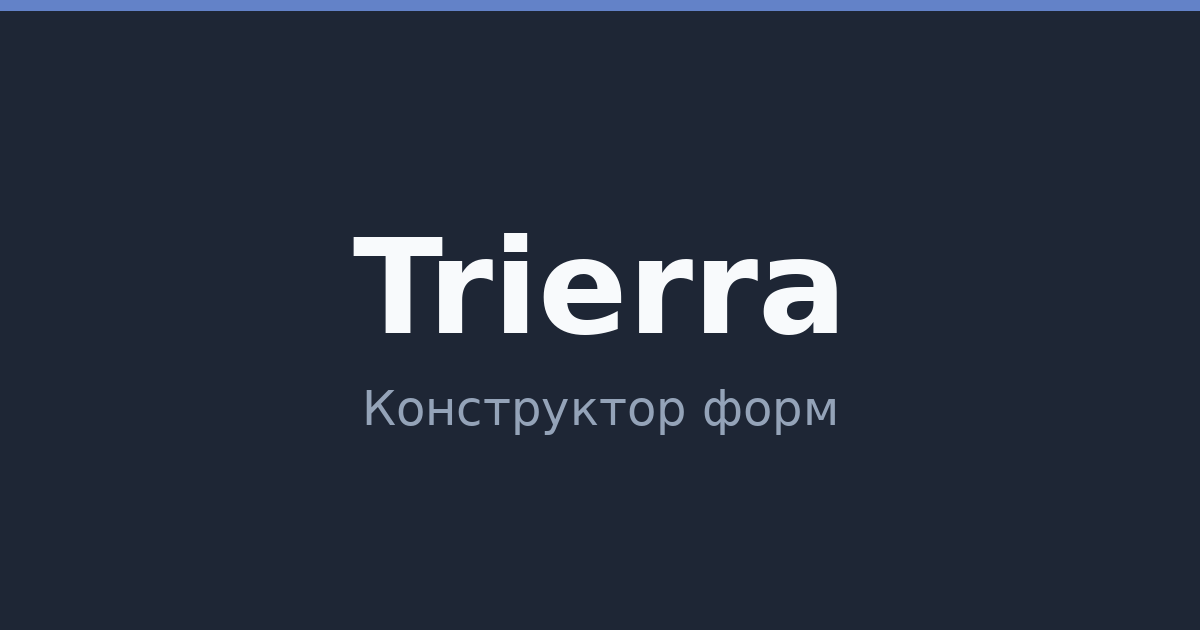
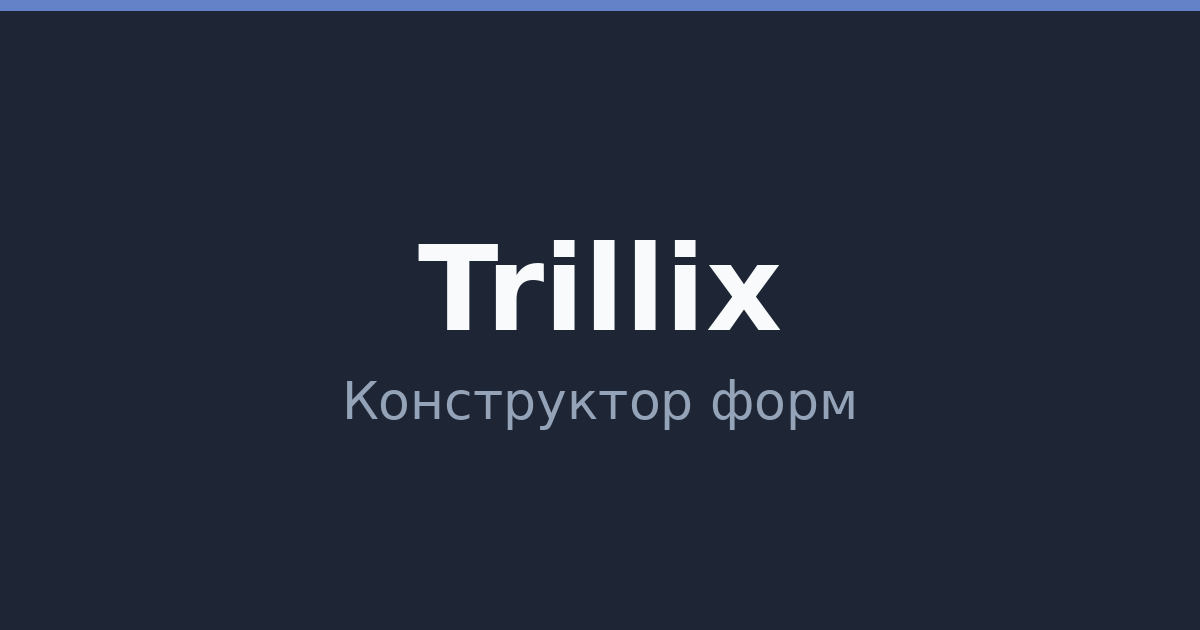
feat(share): брендовая картинка под Trillix, документы и тесты карточки
og-preview.png перерисована — на прежней стояло старое имя проекта. Документы
правятся тем же коммитом: SCHEMA (колонка 0036), API (фасет, purpose, мета
/r/{slug}), ADR-строка §10, BILLING (ключ и точка применения), S3 (потолки),
TECH-DEBT (пункт «своя og:image» закрыт), STATUS.

Changed region(s): [[0.2775, 0.3619, 0.7092, 0.5429], [0.2775, 0.6032, 0.7092, 0.6937]]

diff --git a/internal/forms/integration_test.go b/internal/forms/integration_test.go
@@ -372,6 +372,58 @@ func TestForms_CloseSettings(t *testing.T) {
 		`{"closeAt":null,"responseLimit":5,"closedMessage":""}`, http.StatusNotFound)
 }
 
+// Своя карточка ссылки (PATCH {linkPreview}): фасет доходит до сервиса, GET-деталь
+// её возвращает, набор заменяется целиком (пустая карточка = настройка снята),
+// слишком длинное поле → 422, чужая форма → 404.
+//
+// Тариф здесь НЕ участвует и участвовать не должен: сохранять карточку вправе любой
+// план, а право её применить спрашивается при отдаче публичной страницы. Отдельный
+// сторож этому — TestUpdateLinkPreview_SavesOnAnyPlan в юнитах сервиса.
+func TestForms_LinkPreview(t *testing.T) {
+	resetDB(t)
+	srv := newStack(t)
+	alice := registerUser(t, srv, "alice-preview@example.com")
+	bob := registerUser(t, srv, "bob-preview@example.com")
+
+	form := createForm(t, alice, srv, "Опрос читателей")
+
+	// Форма без карточки — в детали null, а не объект из пустых строк.
+	if d := getFormDetail(t, alice, srv, form.ID, http.StatusOK); d.LinkPreview != nil {
+		t.Fatalf("у новой формы linkPreview = %+v, ожидался null", d.LinkPreview)
+	}
+
+	patchLinkPreview(t, alice, srv, form.ID,
+		`{"siteName":"Журнал «Кот»","title":"Февральский номер","description":"Три минуты.","imageKey":"ws/a.png","iconKey":"ws/i.png"}`,
+		http.StatusOK)
+
+	d := getFormDetail(t, alice, srv, form.ID, http.StatusOK)
+	if d.LinkPreview == nil {
+		t.Fatal("карточка не вернулась в детали формы")
+	}
+	if d.LinkPreview.SiteName != "Журнал «Кот»" || d.LinkPreview.Title != "Февральский номер" {
+		t.Fatalf("в детали не та карточка: %+v", d.LinkPreview)
+	}
+	if d.LinkPreview.ImageKey != "ws/a.png" || d.LinkPreview.IconKey != "ws/i.png" {
+		t.Fatalf("ключи картинок не сохранились: %+v", d.LinkPreview)
+	}
+
+	// Слишком длинный заголовок → 422 (лимит в рунах, кириллица считается верно).
+	patchLinkPreview(t, alice, srv, form.ID,
+		`{"siteName":"","title":"`+strings.Repeat("я", domain.MaxLinkPreviewTitleLen+1)+`","description":"","imageKey":"","iconKey":""}`,
+		http.StatusUnprocessableEntity)
+
+	// Карточка из пустых строк = снять настройку: в колонке NULL, в детали null.
+	patchLinkPreview(t, alice, srv, form.ID,
+		`{"siteName":"","title":"","description":"","imageKey":"","iconKey":""}`, http.StatusOK)
+	if cleared := getFormDetail(t, alice, srv, form.ID, http.StatusOK); cleared.LinkPreview != nil {
+		t.Fatalf("после сброса linkPreview = %+v, ожидался null", cleared.LinkPreview)
+	}
+
+	// Чужую форму не настроить (404, существование не раскрывается).
+	patchLinkPreview(t, bob, srv, form.ID,
+		`{"siteName":"Чужой","title":"","description":"","imageKey":"","iconKey":""}`, http.StatusNotFound)
+}
+
 // Автосейв билдера: валидная схема сохраняется (канонизированной, updated_at
 // сдвигается), мусор → 422, устаревший updated_at → 409, схема без updated_at → 422.
 func TestForms_DraftSchemaAutosave(t *testing.T) {
@@ -1021,6 +1073,13 @@ type formDetailDTO struct {
 	CloseAt       *string         `json:"closeAt"`
 	ResponseLimit *int            `json:"responseLimit"`
 	ClosedMessage *string         `json:"closedMessage"`
+	LinkPreview   *struct {
+		SiteName    string `json:"siteName"`
+		Title       string `json:"title"`
+		Description string `json:"description"`
+		ImageKey    string `json:"imageKey"`
+		IconKey     string `json:"iconKey"`
+	} `json:"linkPreview"`
 }
 
 type listDTO struct {
@@ -1108,6 +1167,15 @@ func patchDraftSchema(t *testing.T, c *http.Client, srv *httptest.Server, id, sc
 }
 
 // patchCloseSettings шлёт PATCH {closeSettings: <objJSON>} — живые настройки закрытия.
+func patchLinkPreview(t *testing.T, c *http.Client, srv *httptest.Server, id, objJSON string, wantStatus int) {
+	t.Helper()
+	r := do(t, c, http.MethodPatch, srv.URL+"/api/v1/forms/"+id, `{"linkPreview":`+objJSON+`}`, csrf(t, c, srv.URL))
+	if r.StatusCode != wantStatus {
+		t.Fatalf("PATCH linkPreview: статус %d, ожидалось %d; тело=%s", r.StatusCode, wantStatus, body2(t, r))
+	}
+	closeBody(t, r)
+}
+
 func patchCloseSettings(t *testing.T, c *http.Client, srv *httptest.Server, id, objJSON string, wantStatus int) formDTO {
 	t.Helper()
 	r := do(t, c, http.MethodPatch, srv.URL+"/api/v1/forms/"+id, `{"closeSettings":`+objJSON+`}`, csrf(t, c, srv.URL))

diff --git a/docs/API.md b/docs/API.md
@@ -509,7 +509,7 @@
 
 ### `GET /forms/{id}`
 Форма целиком, включая черновик схемы и настройки закрытия.
-- **200:** `Form` + `draftSchema` (JSON черновика) + `closeAt` (ISO-строка или `null`), `responseLimit` (число или `null`), `closedMessage` (строка или `null`) — живые настройки закрытия (фаза 8.5 шаг 4) + `notifyOnSubmission` (boolean, слайс D) + `collectPartial` (boolean) — тумблер сбора незавершённых ответов.
+- **200:** `Form` + `draftSchema` (JSON черновика) + `closeAt` (ISO-строка или `null`), `responseLimit` (число или `null`), `closedMessage` (строка или `null`) — живые настройки закрытия (фаза 8.5 шаг 4) + `notifyOnSubmission` (boolean, слайс D) + `collectPartial` (boolean) — тумблер сбора незавершённых ответов + `linkPreview` (объект `{siteName, title, description, imageKey, iconKey}` или `null`) — своя карточка ссылки. Отдаётся **независимо от тарифа**: окно кастомизации показывает сохранённое всем, а применяет карточку к публичной странице тот, кто её отдаёт.
 - **Ошибки:** `404 not_found`.
 
 ### `GET /forms/lookup?slug={slug}`
@@ -518,7 +518,7 @@
 - **Ошибки:** `404 not_found` (нет формы/доступа, либо пустой `slug`).
 
 ### `PATCH /forms/{id}`
-Переименование, автосейв черновика схемы, настройки закрытия, тумблер уведомлений **или** тумблер сбора незавершённых. Требует CSRF. За один запрос меняется **ровно одно** из `name`/`draftSchema`/`closeSettings`/`notifyOnSubmission`/`collectPartial`.
+Переименование, автосейв черновика схемы, настройки закрытия, тумблер уведомлений, тумблер сбора незавершённых **или** карточка ссылки. Требует CSRF. За один запрос меняется **ровно одно** из `name`/`draftSchema`/`closeSettings`/`notifyOnSubmission`/`collectPartial`/`linkPreview`.
 
 **Публичного заголовка (`title`) здесь больше нет** (фаза 15): он стал блоком документа (`form_title`) и приезжает внутри `draftSchema`, а колонку `forms.title` сервер пишет зеркалом. Вторая точка записи того же значения означала бы расхождение колонки с документом. Название при **создании** формы (`POST /forms {title}`) осталось — у документа в этот момент ещё нет ни одного блока.
 
@@ -527,6 +527,8 @@
 - **`{ "closeSettings": { "closeAt": string|null, "responseLimit": number|null, "closedMessage": string } }`** — живые настройки закрытия (фаза 8.5 шаг 4), **полный набор** (отсутствующее/пустое поле = ограничение снято), не частичный патч. `closeAt` — ISO-момент или `null`; `responseLimit` — целое `> 0` или `null`; `closedMessage` ≤2000 рун (пусто → дефолт рендерера). Живут в колонках `forms`, не в схеме, поэтому публикации не требуют. Оптимистичной блокировки нет.
 - **`{ "notifyOnSubmission": boolean }`** — тумблер письма владельцу о новом ответе (слайс D). Живая колонка, применяется немедленно.
 - **`{ "collectPartial": boolean }`** — тумблер сбора незавершённых ответов. Живая колонка. **Включение требует платного тарифа** (`402 plan_required`) — единственный гейт продукта, стоящий на СБОРЕ, а не на показе (ADR §10); выключение доступно всегда, на любом плане: запрет остановить сбор данных о людях был бы дефектом. Право спрашивается ещё раз при отдаче публичной формы, поэтому даунгрейд останавливает сбор, не дожидаясь владельца.
+
+- **`{ "linkPreview": {siteName, title, description, imageKey, iconKey} }`** — своя карточка ссылки. Полный набор, не частичный патч: пустая строка = «вернуть дефолт», карточка из пустых строк стирает настройку (в колонке `NULL`). Живая, применяется немедленно. **402 здесь не бывает:** сохранять карточку вправе любой тариф, а право её применить спрашивается при отдаче `/r/{slug}` (ключ `form_link_preview`) — тот же приём, что у бейджа. Ключи картинок приходят из `POST /forms/{id}/media` с `purpose=preview` и `purpose=icon`.
 
 - **200:** обновлённый `Form` (в т.ч. новый `updatedAt` — использовать как токен для следующего сохранения). У `closeSettings` и `notifyOnSubmission` ответ — `Form` без самих настроек (их читают `GET /forms/{id}`; кабинет патчит кэш детали из отправленного).
 - **Ошибки:** `404 not_found`; `409 conflict` (устаревший `updatedAt`); `422 validation_failed` (длинное name; невалидная схема — в т.ч. `redirectUrl` не абсолютный `http(s)`, единственное поле схемы, которое строго проверяется и в черновике; сломанная ФОРМА правила условной логики — пустое условие, неизвестный оператор, неизвестное действие, действие без цели, `logic` у блока не того типа (сами ссылки правил при этом не проверяются — неразрешимое действие инертно, `SCHEMA.md`); `draftSchema` без `updatedAt`; `responseLimit ≤ 0`; длинный `closedMessage`; больше одного поля сразу или ни одного).
@@ -552,9 +554,9 @@
 - **Ошибки:** `404 not_found`.
 
 ### `POST /forms/{id}/media`
-Загрузка автором картинки формы — блока `image`, обложки или логотипа (docs/design/s3-media.md). Тело — `multipart/form-data` с полями `file` и необязательным `purpose`. Доступ по членству в воркспейсе формы; ключ картинки неймспейсится этим воркспейсом. Сервер сниффит тип по контенту (**PNG/JPEG**, не по заголовку), гардит площадь (≤ 24 Мпикс), пере-кодирует картинку (снос EXIF/GPS), кладёт в public-read бакет и возвращает стабильный контент-адресный ключ. Байты картинки в БД не попадают. Требует CSRF. Лимит тела — 5 МиБ.
-- **`purpose`** — назначение картинки: `block` (дефолт, отсутствие поля читается так же), `cover`, `logo`. Влияет **ровно на потолок ширины** при нормализации: 1400 / 2000 / 512 — обложка тянется во всю ширину окна, а не колонки, логотип рисуется ~72 CSS-px. Хранилище от назначения не зависит (тот же бакет, тот же контент-адресный ключ), поэтому одна и та же картинка под разными назначениями даёт разные объекты — у них разное содержимое. Неизвестное значение → `422`, а не молчаливый откат к `block`: опечатка означала бы обложку, ужатую до ширины колонки, и заметили бы её глазами через неделю.
-- **201:** `{ "imageKey": "<workspaceId>/<sha256>.png" }` — ключ пишется в `settings.imageKey` блока (или в `cover.imageKey`/`logo.imageKey` документа) при автосохранении схемы. Публичный URL картинки кабинет/рендерер собирают из базы раздачи (`MEDIA_BASE_URL`, шаг раздачи) + ключ.
+Загрузка автором картинки формы — блока `image`, обложки, логотипа, а также картинки и иконки карточки ссылки (docs/design/s3-media.md). Тело — `multipart/form-data` с полями `file` и необязательным `purpose`. Доступ по членству в воркспейсе формы; ключ картинки неймспейсится этим воркспейсом. Сервер сниффит тип по контенту (**PNG/JPEG**, не по заголовку), гардит площадь (≤ 24 Мпикс), пере-кодирует картинку (снос EXIF/GPS), кладёт в public-read бакет и возвращает стабильный контент-адресный ключ. Байты картинки в БД не попадают. Требует CSRF. Лимит тела — 5 МиБ.
+- **`purpose`** — назначение картинки: `block` (дефолт, отсутствие поля читается так же), `cover`, `logo`, `preview`, `icon`. Влияет **ровно на потолок ширины** при нормализации: 1400 / 2000 / 512 / 1200 / 256 — обложка тянется во всю ширину окна, а не колонки, логотип рисуется ~72 CSS-px, а карточку ссылки показывает чужой клиент в каноне площадок (1200×630, значок 16–32 px). Хранилище от назначения не зависит (тот же бакет, тот же контент-адресный ключ), поэтому одна и та же картинка под разными назначениями даёт разные объекты — у них разное содержимое. Неизвестное значение → `422`, а не молчаливый откат к `block`: опечатка означала бы обложку, ужатую до ширины колонки, и заметили бы её глазами через неделю.
+- **201:** `{ "imageKey": "<workspaceId>/<sha256>.png" }` — ключ пишется в `settings.imageKey` блока (или в `cover.imageKey`/`logo.imageKey` документа) при автосохранении схемы; у карточки ссылки — в `linkPreview.imageKey`/`iconKey` через `PATCH /forms/{id}`. Публичный URL картинки кабинет/рендерер собирают из базы раздачи (`MEDIA_BASE_URL`, шаг раздачи) + ключ.
 - **Ошибки:** `404 not_found` (нет формы или доступа); `422 validation_failed` (не PNG/JPEG, битый файл, превышение площади, нет поля `file`, неизвестный `purpose`); `413` (тело больше 5 МиБ).
 
 ### `GET /files/{id}`
@@ -942,7 +944,7 @@
 **Приватность.** IP не пишется ни в открытом виде, ни в хеше; cookie и localStorage рендерер не заводит — id визита живёт в памяти страницы и умирает с ней.
 
 ### `GET /r/{slug}`
-HTML-документ страницы формы — «голова на сервере, тело на клиенте». Отдаёт **Go** (не статика): краулеры превью читают HTML без JS, поэтому OG-мета подставляется на сервере. `<head>` содержит `og:title` (title формы), `og:description` (тизер из заголовков первых блоков-вопросов; опускается, если тизер пуст), стандартный `<meta name="description">` (тот же тизер либо фолбэк — всегда присутствует, SEO), `og:image` (env `OG_IMAGE_URL`, общая заглушка) и `og:url` (`{PUBLIC_RENDERER_BASE_URL}/r/{slug}`); `<body>` — `<div id="root">` + ассеты рендерера. Go строит документ из собранного `index.html` рендерера (`PUBLIC_RENDERER_INDEX_PATH`), заменяя в нём плейсхолдер `<!--og-meta-->` на эту мету; ссылки на ассеты (script/link/preload/favicon) берёт из собранного HTML как есть — не перечисляет их сам, поэтому новый ассет сборки правок Go не требует. Пользовательский текст экранируется `html/template` (инъекция `"><script>` в title обезврежена). В dev собранного HTML нет — `/r` отдаёт vite-dev, Go его не обслуживает.
+HTML-документ страницы формы — «голова на сервере, тело на клиенте». Отдаёт **Go** (не статика): краулеры превью читают HTML без JS, поэтому OG-мета подставляется на сервере. `<head>` содержит `og:title` (title формы), `og:description` (тизер из заголовков первых блоков-вопросов; опускается, если тизер пуст), стандартный `<meta name="description">` (тот же тизер либо фолбэк — всегда присутствует, SEO), `og:image` (env `OG_IMAGE_URL`, общая заглушка) и `og:url` (`{PUBLIC_RENDERER_BASE_URL}/r/{slug}`). **Своя карточка ссылки** (`forms.link_preview`) перебивает эти дефолты по каждому непустому полю: `og:site_name`, `og:title` (вместе с `<title>` вкладки), `og:description`, `og:image` (абсолютный `{PUBLIC_RENDERER_BASE_URL}/media/<key>` — относительный краулеры не резолвят) и второй `<link rel="icon">` после дефолтного (из двух одинаковых `rel` браузеры берут последний). Право применить карточку спрашивается **здесь, при отдаче** (`form_link_preview`): не разрешено — отдаются дефолты, сама карточка в колонке остаётся; `<body>` — `<div id="root">` + ассеты рендерера. Go строит документ из собранного `index.html` рендерера (`PUBLIC_RENDERER_INDEX_PATH`), заменяя в нём плейсхолдер `<!--og-meta-->` на эту мету; ссылки на ассеты (script/link/preload/favicon) берёт из собранного HTML как есть — не перечисляет их сам, поэтому новый ассет сборки правок Go не требует. Пользовательский текст экранируется `html/template` (инъекция `"><script>` в title обезврежена). В dev собранного HTML нет — `/r` отдаёт vite-dev, Go его не обслуживает.
 - **200:** `text/html; charset=utf-8`, `Cache-Control: public, max-age=60`. Закрытая форма тоже отдаёт **200** — тот же SPA-шелл: клиент по JSON-ручке получит `410` и нарисует «приём закрыт» (существование публичной формы не скрываем).
 - **Ошибки:** `404 not_found` (черновик / нет формы — как и JSON-ручка; закрытая — не 404).
 - **Параметры запроса (читает клиент, не сервер).** `embed=block|widget|page` — форма открыта во фрейме на чужом сайте: компактные поля, статус-экраны без `100vh`, прокрутка и переход после отправки отдаются хост-странице (фаза 20). `bg=transparent` — прозрачный фон формы. `pf.<block_id>=<значение>` — предзаполнение поля: адресуется тем же id, что и ответы, ложится **под** черновик и **не создаёт полей**. `utm_*` — метки источника (их пробрасывает загрузчик с хост-страницы, внутри фрейма `location.search` — уже адрес рендерера). Неизвестное значение `embed` читается как «не встроены». Как это устроено целиком — [`EMBED.md`](EMBED.md).

diff --git a/docs/ARCHITECTURE.md b/docs/ARCHITECTURE.md
@@ -718,3 +718,4 @@ GitHub Actions, два пайплайна. **CI на каждый PR:** `go vet`
 | **Продукт начинает хранить НЕОТПРАВЛЕННОЕ: черновик ответа автосохраняется в `partial_submissions` (ключ — `visit_id`), живёт 30 дней и не считается в квоту ответов. Сбор включается ТУМБЛЕРОМ формы, тумблер за платным тарифом, а респондента предупреждают на самой форме** | Не собирать вовсе (сегодняшнее состояние) / собирать у всех и гейтить показ (правило «платным становится показ, а не сбор») / кнопка «продолжить позже» / хранить черновик только в браузере | Решение владельца 2026-08-24 (спека §10). Для длинной формы половина знания — в тех, кто не дошёл: воронка говорит «ушёл на третьем вопросе» и молчит о том, что человек написал в первых двух. **Правило «гейтится чтение, а не сбор» здесь СОЗНАТЕЛЬНО развёрнуто**, и это не исключение из прихоти: визиты — счётчики, а черновик — содержимое чужого ответа. Собирать текст, который человек не отправлял, ради владельца, который его всё равно не увидит, — цена без выгоды; а раз респондента об этом предупреждают, сбор «для всех» заставил бы показывать предупреждение и на бесплатных формах, которым он не нужен. Отсюда три следствия: тумблер живой колонкой `forms.collect_partial` (настройка обязана меняться без перепубликации), право спрашивается и при включении, и при ОТДАЧЕ публичной формы (даунгрейд останавливает сбор — тот же приём, что у бейджа), предупреждение показывается ровно когда сбор включён. Кнопка «продолжить позже» требует узнавать человека между сессиями, то есть профиля, которого мы избегаем; хранение в браузере владельцу не даёт ничего. Ключ `visit_id`, а не свой id: черновик принадлежит одному визиту, второе автосохранение обязано перезаписать первое; FK на `form_visits` при этом НЕТ — бикон визита может не доехать, а черновик от этого пропадать не должен. Валидация мягкая (черновик неполон по определению). Срок хранения 30 дней — константа, не переменная окружения: ещё одна строка конфига дороже пользы |
 | **Аналитический эндпоинт отдаёт до 10 последних значений на вопрос, а не только счётчики** | Оставить «наружу только счётчики» / грузить примеры отдельным запросом с листинга ответов | Предложено спекой §9 (согласуется этой же правкой). Правило «наружу только счётчики» (§4.6) писалось, когда сводка была распределениями: у выбора и шкалы бары осмысленны, у текстового вопроса распределение бессмысленно, и владелец смотрит на пустой экран поверх собранных данных. Ограничение снимается ровно настолько, насколько нужно: десять значений на вопрос, дальше — ссылка в листинг ответов со своей пагинацией. Право доступа не меняется — это тот же владелец той же формы, которому те же ответы уже едут постранично на вкладке Submissions; менялось бы оно, десять значений были бы утечкой, а не удобством |
 | **Токен формы выдаётся отдельным некэшируемым запросом `GET /public/v1/form-token` (`Cache-Control: no-store`, своё ведро rate-limit, без обращения к БД); в теле `GET /forms/{slug}` поля `token` больше нет. Отсечка «быстрее 3 секунд — бот» сохраняется, но быстрый ответ рендерер ДОДЕРЖИВАЕТ до порога вместо отказа** | Снять нижнюю отсечку, оставив токен в теле / сделать `GET /forms/{slug}` некэшируемым / отдать токен `<meta>`-тегом в HTML-странице формы / мерить время заполнения от бикона визита (`visits.created_at` по `visit_id`) | Дефект прода 2026-08-25. Токен ехал внутри ответа с `public, max-age=60` и **иммутабельным** ETag (id версии), поэтому его возраст измерял не время заполнения, а возраст записи в кэше браузера. Наблюдалось ровно это: первое в жизни открытие формы всегда упирается в 422 (токену 0 с), второй клик проходит **тем же** токеном, а дальше `304` без тела бессрочно возвращает тот самый первый токен — и ответ через секунду проходит. Барьер не задерживал никого, кроме первого живого респондента, и пропускал бота, которому достаточно взять форму один раз. Верхняя граница ломалась той же причиной и жёстче — отказ без выхода (ждать бесполезно, перезагрузка возвращает `304` с тем же телом), поэтому чинится **доставка**, а не значение окна. Некэшируемым делается именно токен, а не схема: разбор документа формы — самая дорогая операция публичного пути, а выдача токена это чистый HMAC без единого запроса в БД, так что дешёвое становится некэшируемым, дорогое остаётся под ETag. Rate-limit на выдаче не формальность — он единственное, что ограничивает заготовку токенов пачкой. **Додержка вместо отказа:** барьер задуман против скрипта, который не ждёт, и платить за него временем не должен человек; ждём в уже существующем состоянии «отправляем», отсчёт — `performance.now()` от прихода токена (монотонные часы: перевод системного времени посреди заполнения не должен ни ускорить, ни затормозить отправку), сетевая задержка обеих ручек играет в безопасную сторону — сервер видит токен **старше**, чем намерил клиент. **Честно про силу барьера:** и после починки он останавливает только скрипт без `sleep 3`; настоящие backstop'ы — honeypot и per-IP лимит. Сохранён потому, что цена сохранения — одна функция додержки, а снятие потребовало бы отдельно защищать тезис «эта защита не нужна». Отвергнуто: снятие нижней отсечки лечит симптом и оставляет суточное зеркало; `no-store` на `GET /forms/{slug}` платит кэшем самой горячей публичной ручки и разбором схемы на каждое открытие за подпись времени; `<meta>` в HTML-странице формы не требует лишнего запроса, но **страница сама отдаётся с `max-age=60`** — возраст токена снова стал бы возрастом кэша, только окно сузилось бы до минуты, а токен нужен трём потребителям (приём ответа, слот файла, бикон визита), и HTML стал бы вторым его источником рядом с JSON; отсчёт от бикона визита не добавляет запросов вовсе, но делает приём ответа зависимым от аналитики против `ANALYTICS.md` §1 — `visit_id` необязателен по контракту, и сбой бикона начал бы стоить потерянных ответов. **Не меняется:** токен по-прежнему не привязан к конкретной форме (подписанное время годится любой) и реиграбелен внутри суток — обе границы остаются в `TECH-DEBT` §5 |
+| **Своя карточка ссылки формы (`og:site_name`/title/description/image + иконка) — ЖИВАЯ колонка `forms.link_preview`, а гейт тарифа стоит при ОТДАЧЕ публичной страницы, а не при сохранении карточки** | Поля карточки в схеме формы (как обложка и логотип) / отказ 402 на сохранении / пять колонок вместо JSONB | Решение владельца 2026-08-27. Карточка описывает не документ, который увидит респондент, а вид самой ссылки: правка обязана доезжать до мессенджера без перепубликации, иначе автор меняет заголовок, шлёт ссылку и видит прежний текст. Это ровно тот довод, по которому в схеме не живут лимит мест и текст «приём закрыт». Гейт же — природы бейджа, а не цветов: лежи право в снапшоте, один месяц оплаты навсегда включил бы кастомное превью всем формам, опубликованным в этот месяц. Отсюда и отказ от 402 на сохранении — настроить и увидеть предпросмотр вправе любой тариф (иначе за возможность платят вслепую), а даунгрейд возвращает дефолты немедленно, ничего не стирая. JSONB, а не пять колонок: поля меняются вместе, по отдельности не ищутся и в `WHERE` не участвуют |

diff --git a/docs/SCHEMA.md b/docs/SCHEMA.md
@@ -164,6 +164,7 @@ users ──< workspace_members >── workspaces ──< forms ──< form_ve
 | `response_limit` | `INT` | nullable (0007), `CHECK (> 0)` — жёсткий кап принятых ответов; `NULL` = без лимита (ADR §10) |
 | `closed_message` | `TEXT` | nullable (0007) — текст экрана «приём закрыт»; `NULL`/пусто → дефолт рендерера |
 | `notify_on_submission` | `BOOLEAN` | `NOT NULL DEFAULT true` (0013) — слать ли владельцу письмо о новом ответе; живая колонка (тумблер в настройках) |
+| `link_preview` | `JSONB` | nullable (`0036`) — своя карточка ссылки: `siteName`/`title`/`description`/`imageKey`/`iconKey`. `NULL` = не настраивали, публичная страница берёт дефолты (заголовок формы, тизер из подписей, брендовая картинка). Живая колонка: правка доезжает до мессенджера без перепубликации. Право применить карточку спрашивается **при отдаче** страницы (ключ `form_link_preview`), а не при сохранении |
 | `created_at` | `TIMESTAMPTZ` | `NOT NULL DEFAULT now()` |
 | `country_code` | `TEXT` | nullable (`0031`) — ISO 3166-1 alpha-2. `NULL` = место не определили: справочника гео на контуре нет, адрес приватный или это IPv6 (формат справочника его не понимает). **Колонки IP здесь нет и не будет**: страна выводится из адреса в момент приёма бикона, после чего адрес забывается (ADR §10) |
 | `country` | `TEXT` | nullable (`0031`) — русское название страны из справочника. Замораживается в момент визита: переименование в новой версии справочника не переписывает прошлое |
@@ -176,6 +177,8 @@ users ──< workspace_members >── workspaces ──< forms ──< form_ve
 **Поиск и сортировка списка (фаза 8.5 шаг 8) — без своих объектов в схеме.** Один запрос `ListFormsPage` обслуживает три порядка (`updated`/`created`/`responses`): ключ сортировки нормализован к `bigint` (время — в наносекунды эпохи через `extract(epoch …) * 1e9`, число ответов уже `bigint`), поэтому keyset-условие и курсор `(ключ, id)` одни на все порядки. `CASE` в `ORDER BY` не даёт использовать `idx_forms_workspace` для построения порядка — индекс отбирает строки воркспейса, порядок строит sort-узел; отдельный индекс под `created_at` по той же причине не заводился. Осознанно: сортируются десятки строк одного воркспейса, а стоимость запроса определяют счётчики ответов и визитов (замер на dev, 98 форм с формой в 9999 ответов: **2,4–4,4 мс** на любую из трёх сортировок). Поиск — `ILIKE` по `coalesce(name, title)` (отображаемое имя), спецсимволы `LIKE` экранирует Go, длина ограничена `MaxSearchLen` (200 = потолок названия формы: длиннее ничего найти нельзя).
 
 **Известная погрешность: `sort=responses` + курсор.** Ключ этой сортировки — счётчик, который **меняется под ногами**, тогда как ключи `updated`/`created` у показанной строки неподвижны. Если между запросами страниц форма получает ответы и её счётчик перепрыгивает ключ курсора, форма не попадёт ни на следующую страницу (её ключ больше курсора), ни на уже показанную предыдущую — то есть **выпадет из листания**. Воспроизведено на dev: форма с 21 ответом не показана ни на одной из двух страниц. Симметрично возможен и повтор строки при уменьшении счётчика (удаление ответа). Смягчает масштаб: страница — 50 форм, у подавляющего большинства воркспейсов пагинации нет вовсе, и погрешность недостижима. Честная починка — снапшот на время листания (`REPEATABLE READ`) либо пагинация не по счётчику; до появления воркспейсов с сотнями форм это записано как погрешность, а не чинится (решение требует ADR).
+
+**Карточка ссылки (0036) — живая колонка, и JSONB, а не пять колонок.** Живая по тому же доводу, что закрытие: она описывает не документ, который увидит респондент, а вид самой ссылки, и правка обязана действовать без перепубликации. JSONB — потому что поля меняются вместе (окно сохраняет карточку целиком), по отдельности не ищутся и в `WHERE` не участвуют; структуру валидирует приложение (`domain.ValidateLinkPreview`). Пустая карточка нормализуется в `NULL`: у «не настраивали» ровно одно представление.
 
 **Закрытие формы (0007) — живые колонки, не JSONB-схема** (ADR §10): `close_at`/`response_limit`/`closed_message` меняются без перепубликации. **«Фактически закрыта» не хранится, а вычисляется** на чтении: `status = 'closed'` (снята вручную) ИЛИ `status = 'published'` и (`close_at` прошёл ИЛИ `count(submissions) ≥ response_limit`). `status` по дате не флипается — крон не нужен, продление даты переоткрывает мгновенно. Лимит на приёме ответа — жёсткий кап через `pg_advisory_xact_lock` по форме (счётчик+вставка сериализованы); формы без лимита блокировку не берут.
 

diff --git a/docs/TECH-DEBT.md b/docs/TECH-DEBT.md
@@ -376,7 +376,7 @@ ARCHITECTURE §8: «каждый тест в своей транзакции с 
 - **Черновиковые картинки публично читаемы.** Бакет `app-media` — public-read; картинка чернового блока доступна по неугадываемому hash-URL любому, у кого он есть (модель Notion/Tally). Инвариант 5 формально не нарушается (блоб не раскрывает существование формы). Ужесточение — отдавать только блобы опубликованных версий — связало бы раздачу с БД и сломало бы «Caddy отдаёт байты, не Go». Пересмотреть, если появится приватный медиа-контент.
 - **Форматы — только PNG/JPEG.** WebP/GIF нет. Причина изменилась и её стоит знать: чистые Go-энкодеры WebP к 2026 появились, но lossy среди них моложе полугода (самый обкатанный, `nativewebp`, умеет только lossless), а референсная libwebp требует cgo — то есть отказа от `CGO_ENABLED=0`, статического бинаря и `distroless/static`. Решение владельца (2026-08-01): не платить эту цену, пока даунскейл даёт основной выигрыш; вернуться к вопросу, если замер покажет, что картинки всё ещё доминируют.
 - **Один вариант картинки, без `srcset` и CDN.** Ресайз на загрузке есть (ширина ≤1400, `docs/S3.md` §3), но вариантов под разные экраны нет: контент-адресные ключи означали бы отдельный объект на вариант, а сироты не собираются (TD-16). Нет также превью и per-workspace квот хранилища.
-- **Своя og:image на форму** стала технически возможна с появлением медиа-хранилища (сейчас `OG_IMAGE_URL` — общая брендовая заглушка), но требует **абсолютного** URL картинки (относительный `/media/<key>` краулеры не резолвят) и продуктового решения «какая картинка формы = превью ссылки». Пост-MVP.
+- ~~**Своя og:image на форму**~~ — **сделано** (задача вне плана, 2026-08-27): карточку ссылки автор задаёт целиком (имя площадки, заголовок, описание, картинка, иконка), она живёт в колонке `forms.link_preview`, а абсолютный URL картинки собирается из домена рендерера. `OG_IMAGE_URL` остался дефолтом для формы без своей карточки.
 - **`blob.Presign`/`HeadObject`/`ListObjects` не реализованы** — нет потребителя (Presign — presigned-поток файлов ответов Фазы 17; Head — дедуп-скип в `MediaStore`; List — GC сирот, см. TD-16). Добавляются вместе с первым потребителем.
 - **Токен формы реиграбелен внутри окна свежести.** После TD-6 (#35) возраст токена проверяется в окне `[3 с, 24 ч]`, но тот же валидный токен можно предъявить многократно внутри этого окна — уникальность/одноразовость не проверяется. Массовую рассылку сдерживают per-IP rate-limit (TD-1) и honeypot, не сам токен. Полное лечение — одноразовые токены: серверный nonce (выдали → запомнили → приняли ответ → погасили), но это требует состояния (таблица/кэш коротко живущих nonce) и усложняет идемпотентный ретрай (тот же токен на легитимном ретрае обязан пройти). Осознанная граница MVP: для антиспама одного VPS слоёв min/max-age + rate-limit + honeypot достаточно. Пересмотреть, если появится целевой спам через переиспользование токена.
 - **GC лимитера держит глобальный Mutex на время обхода карты** (`internal/ratelimit/ratelimit.go`, `TokenBucket.GC`, введён в TD-5/#30). Один мьютекс сериализует и `Allow`, и `GC`; периодический эвикт — полный O(n)-скан под этим замком. На реалистичной карте (десятки-сотни тыс. ключей) это единицы миллисекунд раз в 10 минут — незаметно; но при DDoS-раздутой карте скан превращается в периодический latency-спайк для всех запросов через лимитер. Осознанная граница MVP (один VPS), не долг под ближайшую фазу. Правильные замены, если нагрузочная проба покажет проблему: (а) поколенческая ротация двух карт — «GC» становится O(1)-сбросом без скана; (б) striped locking — блокировать лишь 1/N трафика; (в) для нескольких инстансов — Redis с native TTL (ARCHITECTURE уже назначает это на scale-out, интерфейс `RateLimiter` развязан). Пересмотреть **пост-MVP** или при первом реальном latency-спайке на нагрузке.

diff --git a/docs/STATUS.md b/docs/STATUS.md
@@ -1,14 +1,16 @@
 # Состояние проекта
 
-**Обновлено:** 2026-08-27 · **Последняя работа:** незавершённые ответы в кабинете —
-вкладки «Частичные» и «Все ответы», настройки формы отдельным разделом (задача вне плана),
-влита в `main` ([#147](https://github.com/ka-shmd/trillix/pull/147)), **не выкачена**;
-перед ней — редизайн кабинета ([#146](https://github.com/ka-shmd/trillix/pull/146)) и
+**Обновлено:** 2026-08-27 · **Последняя работа:** своя карточка ссылки (задача вне плана) —
+раздел «Превью ссылки» на экране «Поделиться» получил окно кастомизации: имя площадки,
+заголовок, описание, картинка и иконка, живой предпросмотр, метка ПРО; **в работе, не влита**;
+перед ней — незавершённые ответы в кабинете
+([#147](https://github.com/ka-shmd/trillix/pull/147)),
+редизайн кабинета ([#146](https://github.com/ka-shmd/trillix/pull/146)) и
 пространства в сайдбаре с коротким адресом
 ([#142](https://github.com/ka-shmd/trillix/pull/142),
 [#144](https://github.com/ka-shmd/trillix/pull/144)), тоже не выкачены ·
-**Прод:** тег `v0.26.2` — этих изменений на нём ещё нет, миграция `0035` применится следующим
-тегом · **Предыдущий тег:** `v0.26.1` (длительность визитов)
+**Прод:** тег `v0.26.2` — этих изменений на нём ещё нет, миграции `0035` и `0036` применятся
+следующим тегом · **Предыдущий тег:** `v0.26.1` (длительность визитов)
 
 > Этот документ **переписывается**, а не дописывается, и отвечает на один вопрос: «что верно
 > прямо сейчас». Он впрыскивается в контекст каждой сессии — поэтому **всё, что перестало
@@ -39,7 +41,7 @@
   (`answerfiles`, `auth`, `blob`, `config`, `domain`, `entitlements`, `forms`, `geo`, `httpserver`,
   `integrations`, `mail`, `media`, `oauth`, `periodic`, `pgtest`, `postgres`, `ratelimit`,
   `submissions`, `token`, `visits`, `workspaces`).
-- **PostgreSQL 16** — 35 миграций (`0001`…`0035_workspace_slug`). Таблицы — [`SCHEMA.md`](SCHEMA.md).
+- **PostgreSQL 16** — 36 миграций (`0001`…`0036_form_link_preview`). Таблицы — [`SCHEMA.md`](SCHEMA.md).
 - **web/app** — кабинет: React + TanStack + Tailwind v4 + shadcn/ui; графики аналитики — recharts за ленивой загрузкой (`features/insights/lazyCharts.tsx`), в общий чанк не входит.
 - **web/renderer** — публичный рендерер: preact/compat + zod, **бюджет 45 КиБ gzip** (сейчас
   38.54). Рядом — загрузчик встроенной формы `embed/v1.js`, свой бюджет 4 КиБ (сейчас 2.59),

diff --git a/docs/BILLING.md b/docs/BILLING.md
@@ -90,6 +90,7 @@ internal/entitlements/
   internal/forms/service.go        UpdateCollectPartial → SubmissionsPartial (только на включении)
   internal/forms/service.go        CollectPartial       → SubmissionsPartial (на отдаче публичной формы)
   internal/visits/service.go       Funnel               → AnalyticsFunnel (отказ 402)
+  internal/forms/service.go        LinkPreviewFor       → FormLinkPreview (на отдаче публичной страницы)
 
 Кабинет:
   web/app/src/entities/plan.ts                     Zod-схема снимка
@@ -292,6 +293,7 @@ ORDER BY u.submissions DESC NULLS LAST LIMIT 20;
 | `form_custom_css` | toggle | воркспейс | — | ключ заведён, **свой CSS ещё не сделан** (слайс 7 фазы 22) |
 | `storage_per_workspace` | quota | воркспейс | `answerfiles.IssueSlot` (402) | **работает** (фаза 24), но у всех планов безлимит. Расход — сумма размеров ВСЕХ загрузок пространства, включая незаявленные: место занято с момента выдачи слота, а брошенные вернёт чистка сирот в течение суток. **Единственная квота, отказывающая РЕСПОНДЕНТУ**: лишнюю строку в базе можно принять и пометить, лишние байты — нет, за них платят. Ответ при отказе не теряется — уходит без файла |
 | `form_branding` | toggle | воркспейс | отдача публичной формы | **работает** (фаза 22): гейт на ВЫДАЧЕ, а не в снапшоте — иначе месяц оплаты навсегда снимал бы бейдж с форм этого месяца |
+| `form_link_preview` | toggle | воркспейс | отдача публичной страницы `/r/{slug}` | **работает** (задача вне плана, 2026-08-27): своя карточка ссылки. Гейт той же природы, что у бейджа, и по той же причине — на ВЫДАЧЕ. Сохранять карточку и смотреть предпросмотр можно на любом тарифе (иначе за возможность платят вслепую); без права страница отдаёт дефолты, а сама карточка в колонке остаётся и оживает после апгрейда |
 
 ---
 

diff --git a/docs/S3.md b/docs/S3.md
@@ -112,6 +112,8 @@ Query кодируется по RFC 3986 (`canonicalQueryValues`), а не `url.
   | `block` (дефолт) | `MaxImageWidth` = 1400 | колонка 700 CSS-px (`.rf-page`) × 2 под retina; `.rf-image` — `max-width:100%`/`height:auto`, отображение ограничивает только ширину |
   | `cover` | `MaxCoverWidth` = 2000 | обложка тянется во всю ширину **окна**, а не колонки: ноутбук 1440–1680 CSS-px. Полный ретина-десктоп (2880) сознательно не даём — обложка декоративна, лишние мегабайты у респондента дороже её резкости |
   | `logo` | `MaxLogoWidth` = 512 | логотип рисуется ~72 CSS-px (`.rf-logo`): сегодня хватило бы 216 (DPR 3), запас не стоит ничего — плоская графика в этих габаритах весит единицы КиБ |
+  | `preview` | `MaxPreviewWidth` = 1200 | картинка карточки ссылки: и Open Graph, и Twitter Card показывают её в 1200×630, всё что шире — ужмёт сама площадка за счёт трафика респондента. Ретина-запас не нужен: карточку рисует чужой клиент в своих габаритах. Кадрирования до 630 нет — обрезать чужую картинку вслепую значит отрезать половину замысла |
+  | `icon` | `MaxIconWidth` = 256 | иконка площадки в карточке и во вкладке: показывается в 16–32 CSS-px, 256 покрывает любой DPR. Меньше логотипа намеренно — это значок рядом с адресом, а не знак страницы |
 
   **Назначение — параметр запроса, а не догадка по размеру входа:** обложку от
   картинки блока по пикселям не отличить. Неизвестное значение отвергается на границе
